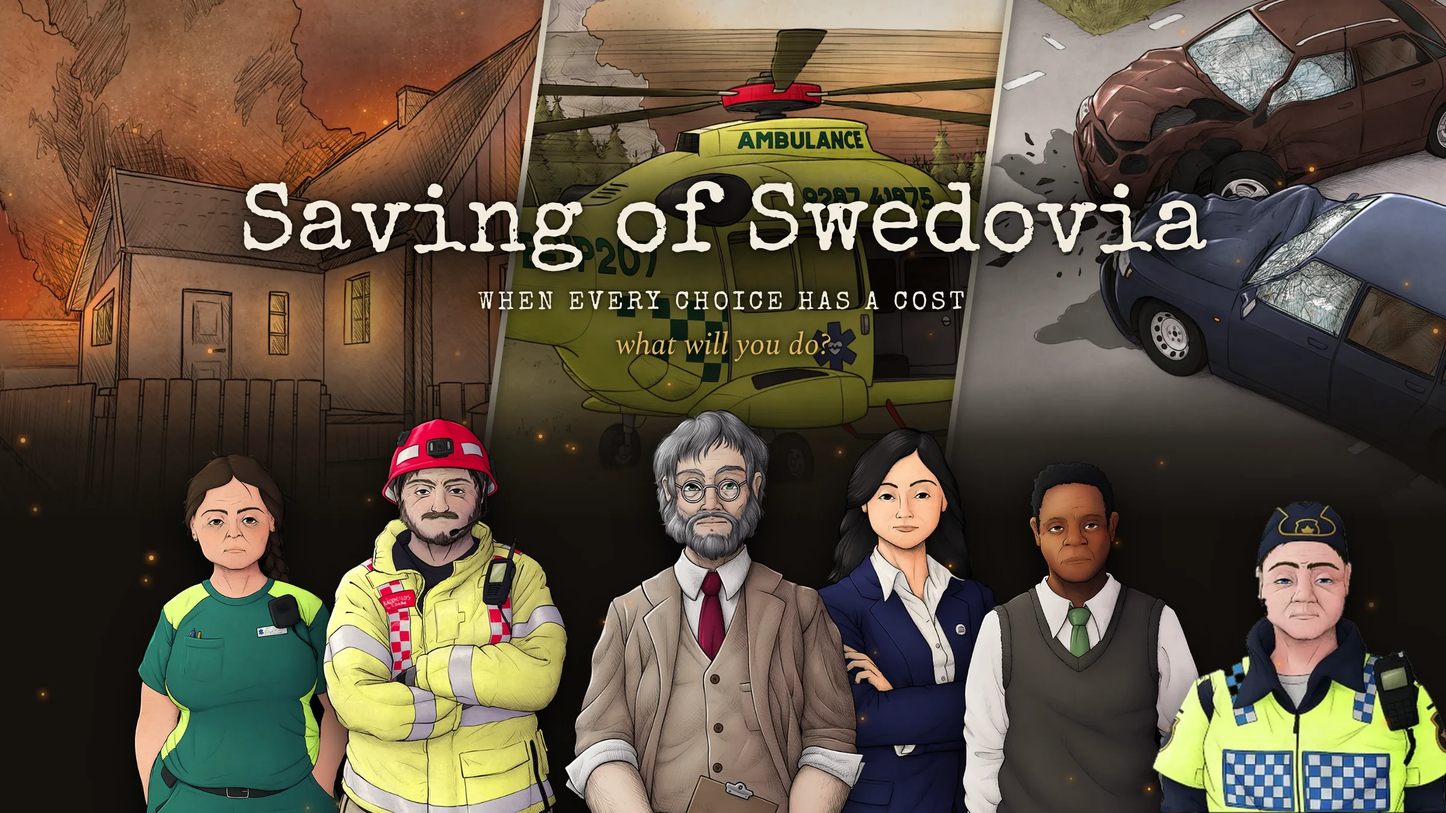
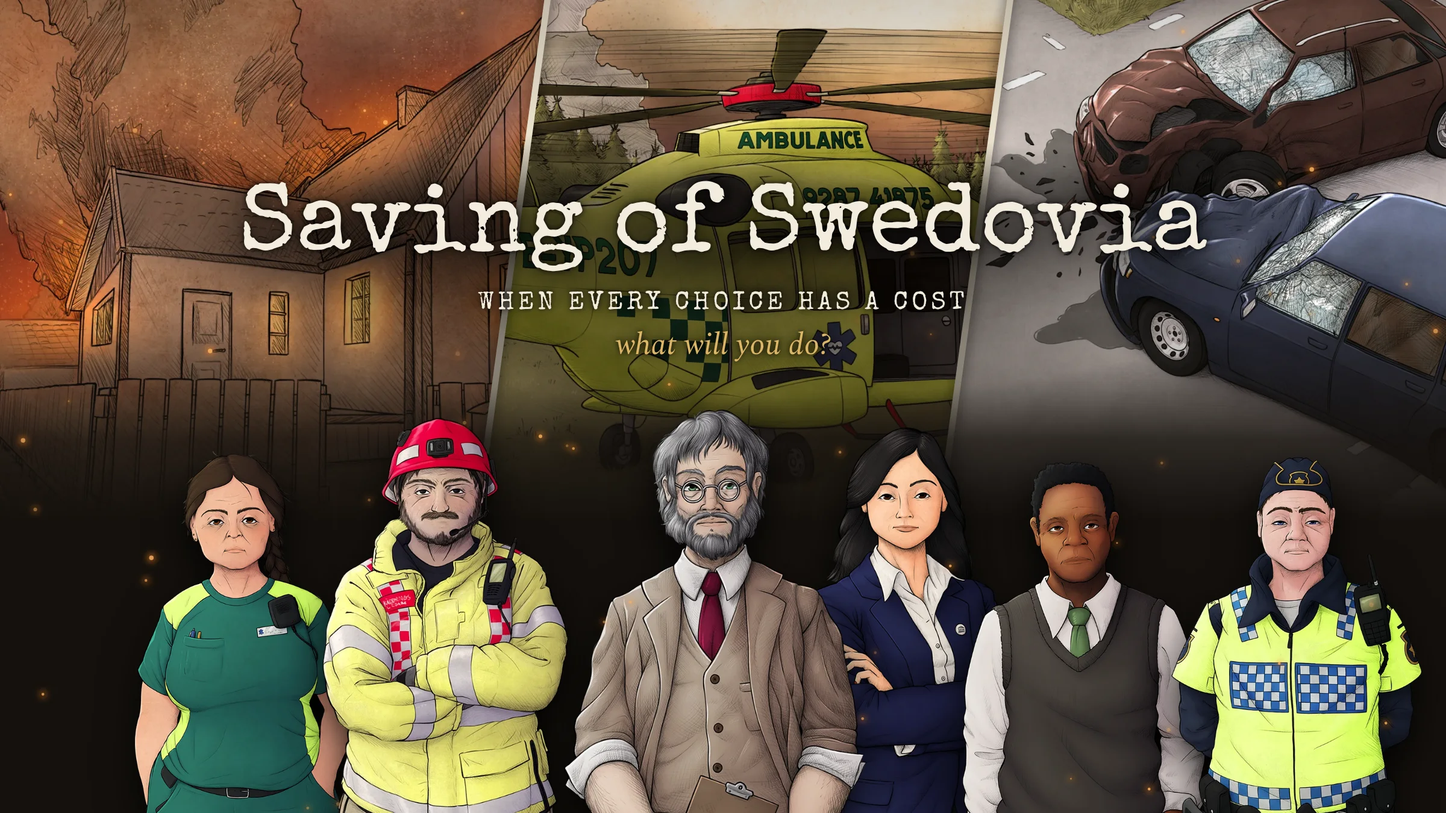
Cover: swap in clean Oskar (police) picture
Claude-Session: https://claude.ai/code/session_013vweda7C13R9UatxVzfQ4g

Changed region(s): [[0.7812, 0.56, 1.0, 1.0]]

diff --git a/index.html b/index.html
@@ -80,7 +80,7 @@
             </div>
             <div class="sos-hero-game">
                 <a href="#play" class="sos-hero-screen" aria-label="Play Saving of Swedovia">
-                    <img src="images/cover-title.webp" alt="The characters of Saving of Swedovia in front of a burning house, an ambulance helicopter and a car crash">
+                    <img src="images/cover-title.webp?v=2" alt="The characters of Saving of Swedovia in front of a burning house, an ambulance helicopter and a car crash">
                 </a>
                 <a href="#play" class="sos-hero-play">
                     <svg viewBox="0 0 24 24" width="22" height="22" fill="currentColor" aria-hidden="true"><path d="M8 5v14l11-7z"/></svg>
